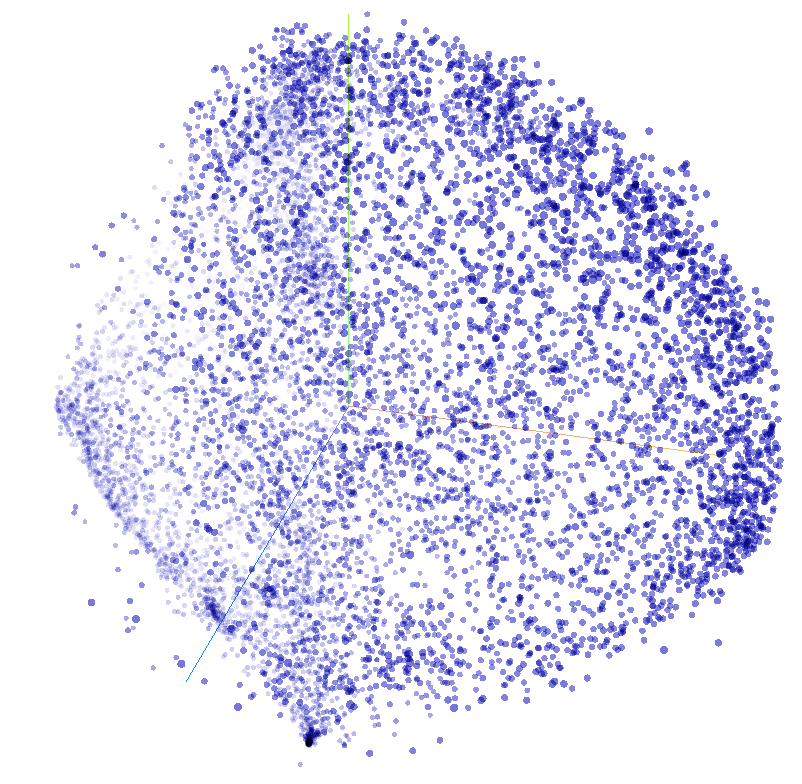
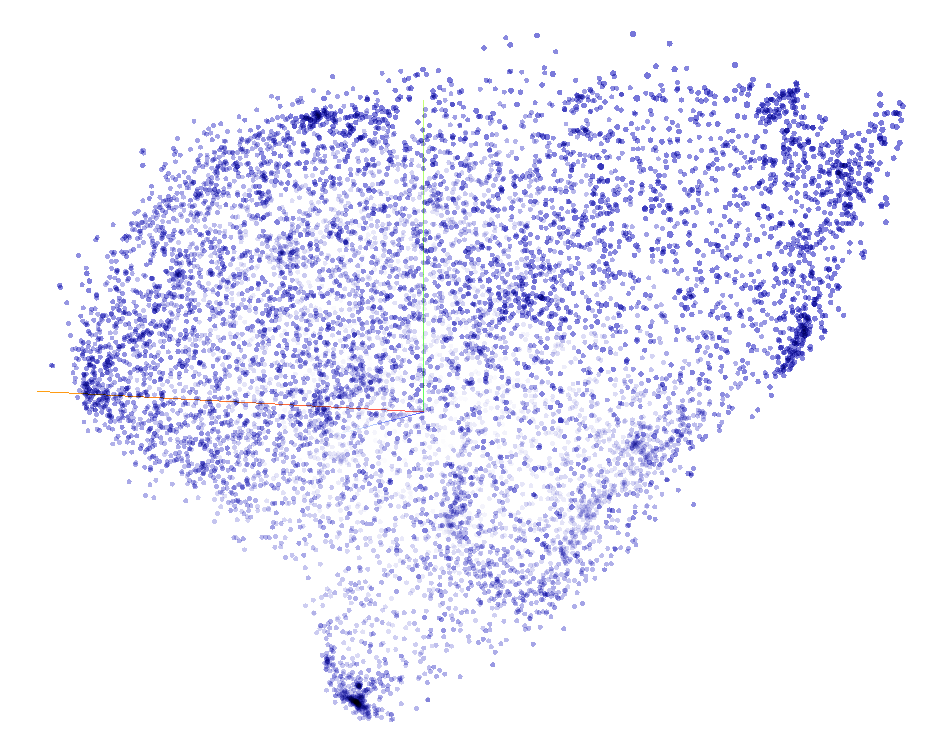
update: t-SNE w2v embeddings visualization

diff --git a/README.md b/README.md
@@ -159,7 +159,9 @@ You can just simply type ```tensorboard --logdir=./ml_model/```
 
 ![img](./image/w2v-t_sne-visualization.png)
 
-> trained with default parameters set by Tensorboard
+> Perplexity : 80 <br/>
+> Learning rate : 10 <br/>
+> Iteration : 310 <br/>
 
 ## To-Do
 1. deal with word spacing problem
